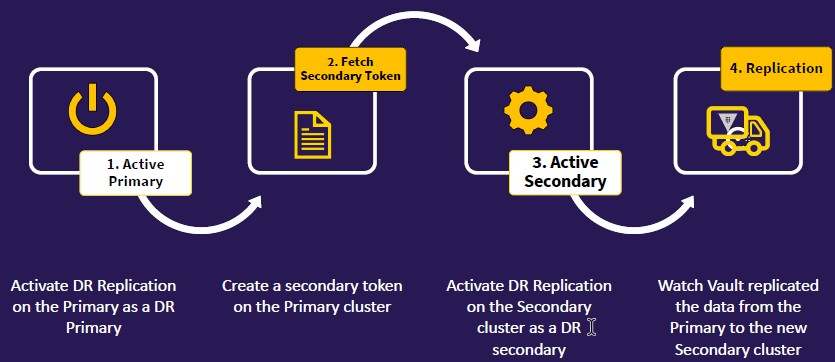
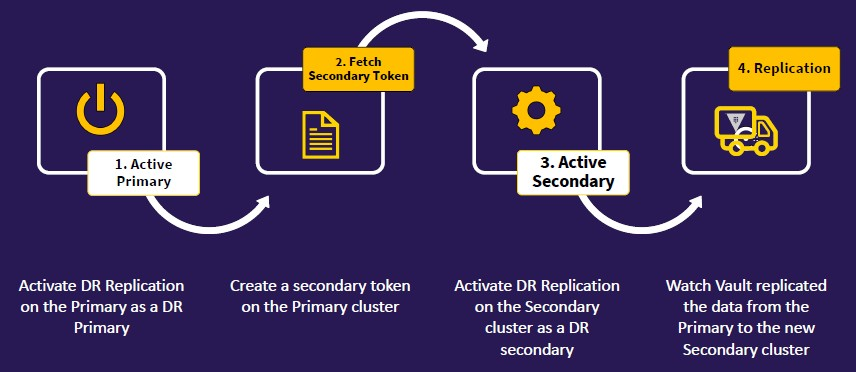
Configure Replication on the CLI

diff --git a/HashiCorp Vault/HashiCorp Vault Commands.md b/HashiCorp Vault/HashiCorp Vault Commands.md
@@ -1699,6 +1699,45 @@ kubectl -n default describe secret my-pki-secret
 
 ![Vault Replication](./images/VaultReplication07.jpg)
 
+
+
 # How Do We Set All of this Up?
 
 ![Vault Replication](./images/VaultReplication08.jpg)
+
+# Activating DR Replication
+# - Replication is NOT enabled by default, so you must enable it on each cluster that will participate in the replica set
+# - Enables an internal root CA on the primary Vault cluster - creates a root certificate and client cert
+# - Vault creates a mutual TLS connection between the nodes using self-signed certificates and keys from the internal CA – NOT the same TLS configured for the listener
+#   - If Vault sits behind a load balancer that is terminating TLS, it will break the mutual TLS between the nodes if inter-cluster traffic is forced through the load balancer
+
+# Secondary Token
+# - A secondary token is required to permit a secondary cluster to replicate from the primary cluster
+# - Due to its sensitivity, the secondary token is protected with response wrapping
+# - Multiple people should “have eyes” on the secondary token once it’s been issued until it is submitted to the secondary cluster
+# - Once the token is successfully used, it is useless (single-use token)
+# - The secondary token includes information such as:
+#   - The redirect address of the primary cluster
+#   - The client certificate and CA certificate
+
+# How is the Secondary Token Used?
+
+![Vault Replication](./images/VaultReplication09.jpg)
+
+# Configure Replication on the CLI
+# 1- Activate DR Replication
+vault write -f sys/replication/dr/primary/enable
+# 2- Create the Secondary Token
+# <id> Name it what you want
+vault write sys/replication/dr/primary/secondary-token id=<id>
+# 3- Activate the Secondary Cluster
+# <token> Provide token from primary cluster (command above)
+vault write sys/replication/dr/secondary/enable token=<token>
+
+# Monitor Replication
+# Check Status of ALL Replication
+vault read -format=json sys/replication/status
+# Check Status of Performance Replication
+vault read -format=json sys/replication/performance/status
+# Check Status of DR Replication
+vault read -format=json sys/replication/dr/status
